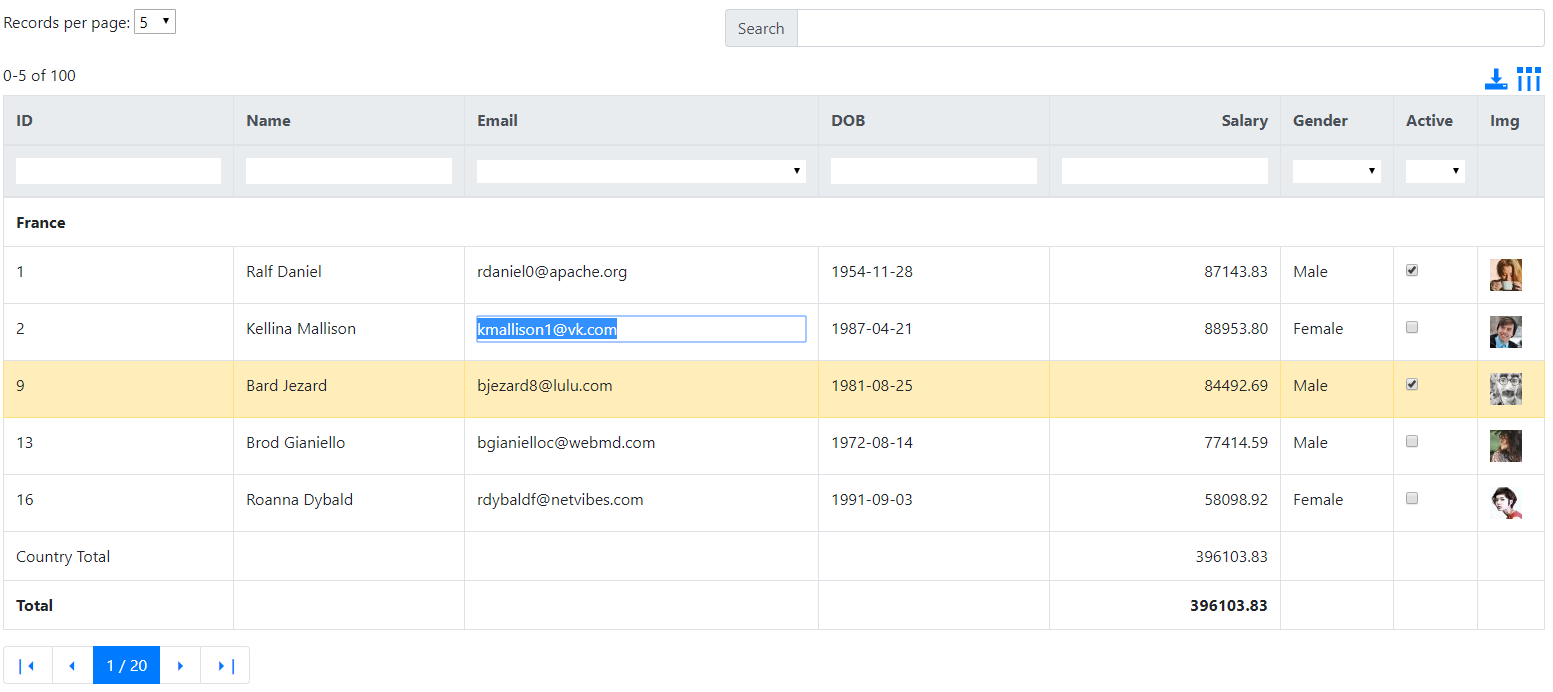
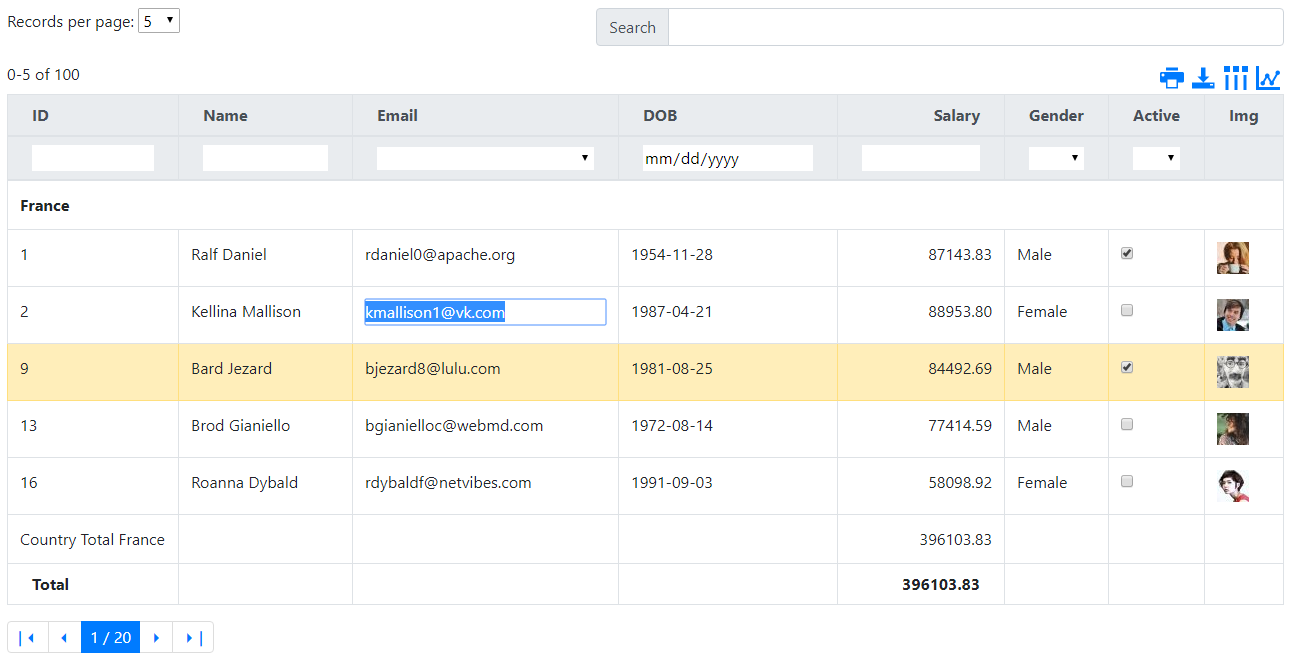
form demo

diff --git a/fathform.js b/fathform.js
@@ -1,0 +1,137 @@
+;var style = document.createElement('style');
+style.setAttribute("id","FathForm_styles");
+style.innerHTML = `
+  .FathForm .error {border-color:red;}
+  .FathForm .error-msg {color:red;}
+`;
+document.head.appendChild(style);
+//icons from https://icomoon.io/app/#/select
+
+((function(win){
+  win.FathForm=function(obj,id,_config){
+    var config={
+        method:'GET',
+        action:'',
+        fieldSeparator:'',
+        radioTemplate:`
+            <div class="form-check">
+                <input class="form-check-input" id="{id}" type="{type}" name="{name}" value="{value}" {disabled} {required} {attrs} {checked}/>
+                <label class="form-check-label" for="{id}">{label}</label>
+            </div>
+        `,
+        checkboxTemplate:`
+            <div class="form-group form-check">
+                <input class="form-check-input" id="{id}" type="{type}" placeholder="{placeholder}" name="{name}" {disabled} {required} {attrs} {checked}/>
+                <label class="form-check-label" for="{id}">{label}</label>
+            </div>`,
+        inputTemplate:`
+            <div class="form-group {classes}">
+                <label for="{id}">{label}</label>
+                <input class="form-control" id="{id}" type="{type}" placeholder="{placeholder}" name="{name}" value="{value}" {disabled} {required} {attrs}/>
+                <small class="form-text text-muted">{hint}</small>
+                <small class="error-msg form-text ">{error}</small>
+            </div>`,
+        selectTemplate:`
+            <div class="form-group {classes}">
+                <label for="{id}">{label}</label>
+                <select  class="form-control" id="{id}"  placeholder="{placeholder}" name="{name}" {disabled} {required} {attrs}>{options}</select>
+                <small class="form-text text-muted">{hint}</small>
+                <small class="error-msg form-text ">{error}</small>
+            </div>`,
+        textareaTemplate:`
+            <div class="form-group {classes}">
+                <label for="{id}">{label}</label>
+                <textarea class="form-control" id="{id}" placeholder="{placeholder}" name="{name}" {disabled} {required} {attrs}>{value}</textarea>
+                <small class="form-text text-muted">{hint}</small>
+                <small class="error-msg form-text ">{error}</small>
+            </div>`,
+        save:function(item){console.log("Saving data called",item)},
+        validate:function(item,errors){console.log("validate called",item);},
+        ..._config
+    };
+    var model=obj,model0=obj;
+    var wrapper=document.querySelector(`#${id}`);
+
+    var errors={
+        err:[],
+        add:function(field,msg){this.err.push({f:field,m:msg})},
+        clear:function(){ this.err=[]},
+    };
+    function renderField(f,model){
+        const parts={ 
+            classes:(f.classes||'')+(f.error!==undefined?' error':''),
+            label:f.label||f.name,
+            name:f.name,
+            id:f.id||f.name,
+            type:f.type||'text',
+            placeholder:f.placeholder||'',
+            hint:f.hint||'',
+            value: model[f.name],
+            checked: model[f.name]?'checked':'',
+            options:'{options}',
+            disabled:f.disabled===true?'disabled':'',
+            required:f.required===true?'required':'',
+            error:f.error||'',
+            attrs:`${f.height?`height="${f.height}"`:''} ${f.style?`style="${f.style}"`:''}`
+        };
+        if(f.type=='radio') return f.list.map(o=>{
+            parts.value=o.value;
+            parts.label=o.name;
+            parts.checked=(model[f.name]==o.value)?' checked ':'';
+            return `${config.radioTemplate.replace(/{(\w+)}/g, (x, y) => parts[y])}`;
+        }).join(''); ;
+        if(f.list!==undefined) return `${config.selectTemplate.replace(/{(\w+)}/g, (x, y) => parts[y])}`.replace('{options}',f.list.map(o=>`<option ${parts['value']==o.value?'selected':''} value=${o.value}>${o.name}</option>`).join(''));
+        if(f.type=='textarea') return `${config.textareaTemplate.replace(/{(\w+)}/g, (x, y) => parts[y])}`;
+        if(f.type=='checkbox') return `${config.checkboxTemplate.replace(/{(\w+)}/g, (x, y) => parts[y])}`;
+        return `${config.inputTemplate.replace(/{(\w+)}/g, (x, y) => parts[y])}`;
+    }
+
+    function render(){
+        wrapper.innerHTML=`
+          <form class="FathForm" method="${config.method}" action="${config.action}" >
+          ${config.fields.map(f=>renderField(f,model)).join(`${config.fieldSeparator}`)}
+          </form>`
+        ;
+    }
+    function validate(){
+        wrapper.querySelectorAll("input, select, textarea").forEach(i=>{i.classList.remove('error'); if(!i.checkValidity()) i.classList.add("error");});
+
+        errors.clear();
+        var mm={...model};
+        config.fields.forEach(f=>{mm[f.name]=wrapper.querySelector(`:scope *[name='${f.name}']`).value});
+        config.validate(mm,errors);
+        if(errors.err.length>0){
+            config.fields.forEach(f=>f.error=undefined);
+            errors.err.forEach(e=>{
+                wrapper.querySelector(`:scope *[name='${e.f}']`).classList.add("error");
+                wrapper.querySelector(`:scope *[name='${e.f}']`).parentElement.querySelector(":scope .error-msg").innerText=e.m;
+            });
+            return false;
+        }
+        return true;
+    }
+    function doSave(){
+        if(!validate()) return;
+        
+        config.fields.forEach(f=>{
+            f.type=='checkbox'?
+                model[f.name]=wrapper.querySelector(`:scope *[name='${f.name}']`).checked :
+                (f.type=='radio'?
+                    (wrapper.querySelector(`:scope *[name='${f.name}']:checked`)!=null?model[f.name]=wrapper.querySelector(`:scope *[name='${f.name}']:checked`).value:null) :
+                    model[f.name]=wrapper.querySelector(`:scope *[name='${f.name}']`).value
+                )
+        });
+        console.log("saving ",model);
+        config.save(model);
+    }
+
+    render();
+    return {
+      id:id,
+      render:render,
+      wrapperEl:wrapper,
+      save:doSave,
+      reset:function(){model=obj;render()},
+    }
+  }
+})(typeof window !== "undefined" ? window : this));

diff --git a/demos/form-demo.html b/demos/form-demo.html
@@ -1,0 +1,128 @@
+<!doctype html>
+<html lang="en">
+  <head>
+    <!-- Required meta tags -->
+    <meta charset="utf-8">
+    <meta name="viewport" content="width=device-width, initial-scale=1, shrink-to-fit=no">
+
+    <!-- Bootstrap CSS -->
+    <link rel="stylesheet" href="https://stackpath.bootstrapcdn.com/bootstrap/4.3.1/css/bootstrap.min.css" integrity="sha384-ggOyR0iXCbMQv3Xipma34MD+dH/1fQ784/j6cY/iJTQUOhcWr7x9JvoRxT2MZw1T" crossorigin="anonymous">
+
+    <title>FathGrid demo!</title>
+    
+    <!-- add jsPdf to enable PDF export -->
+    <script src="https://unpkg.com/jspdf@latest/dist/jspdf.min.js"></script>
+
+
+    <script src="../fathgrid.js"></script>
+    <script src="../fathform.js"></script>
+
+    <style>
+      tr.selected td:nth-child(1) {border-left:solid 4px cornflowerblue;}
+      tr.selected > td{background:#ddd;}
+      tr.subgrid > td {border-left:solid 4px cornflowerblue;border-bottom: solid 2px #ddd}
+    </style>
+
+  </head>
+  <body>
+      <div class="container-fluid">
+    <h1>FathGrid with server-side data</h1>
+    <p>This demo uses FathGrid.serverURL to get data from server-side API (<a href="https://jsonplaceholder.typicode.com/">jsonplaceholder</a>).</p>
+    <p>When a row is selected, sub-grid is initialized with detail data.</p>
+
+    <div style="display: flex;">
+      <div style="flex-grow: 1">Records per page: <select onchange="t1.setPageSize(this.value)"><option value="5">5</option><option selected value="10">10</option><option value="20">20</option><option value="50">50</option></select></div>
+      <div style="flex-grow: 1">
+        
+        <div class="input-group mb-3">
+          <div class="input-group-prepend">
+            <span class="input-group-text" id="inputGroup-sizing-default">Search</span>
+          </div>
+          <input onchange="t1.search(this.value)" type="text" class="form-control" aria-label="Default" aria-describedby="inputGroup-sizing-default">
+        </div>        
+      </div>
+    </div>
+
+
+    <div class="row">
+      <div class="col-md-8">
+          <table  id="table1" class="table table-bordered ">       <thead class="thead-light"></thead> </table>
+      </div>
+      <div class="col-md-4">
+
+        <div class="modal-content">
+          <div class="modal-header">
+            <h5 class="modal-title">Form</h5>
+          </div>
+          <div class="modal-body">
+              <div id="form-container">(select record)</div>
+          </div>
+          <div class="modal-footer">
+            <button type="button" class="btn btn-secondary" onclick="f1.reset()">Reset</button>
+            <button type="button" class="btn btn-primary" onclick="f1.save()">Save</button>
+          </div>
+        </div>        
+        
+
+
+      </div>
+      
+    </div>
+
+  </div>
+  
+    <script>
+        var t1,f1,users=[];
+
+        fetch('https://jsonplaceholder.typicode.com/users')
+          .then(response => response.json())
+          .then(json => {
+            json.forEach(x=>users.push({value:x.id,name:x.name}));
+
+
+            //initialize main grid with posts data from server
+            t1=FathGrid("table1",{
+              serverURL:'https://jsonplaceholder.typicode.com/posts?_page=${page}&_limit=${size}&_sort=${sort}&_order=${order}&q=${search}&${filters}',
+              size:10,
+              editable:true,
+              onChange:function(data,col,old,value){console.log("onChange:",data.id,col,old,value);return value==''?false:true;},
+              
+              //this onclick function shows comments for selected post
+              onClick:function(item,col,el){
+                f1=FathForm(item,'form-container',{
+                  fields:[
+                    {name:'id', label:'ID',disabled:true},
+                    {name:'userId', label:'User',list:users},
+                    {name:'title',label:'Title',required:true},
+                    {name:'body',type:'textarea',style:'height:12rem',label:'Body'},
+                    {name:'active',type:'checkbox',label:'Active'},
+                    {name:'rad', type:'radio',label:'Radios',list:[{value:'1',name:'Radio1'},{value:'2',name:'Radio2'},{value:'3',name:'Radio3'},]},
+                  ],
+                  validate:(item,errors)=>{if(item.body=='') {errors.add('body','Must enter something!');return false;}},
+                  save:(item2)=>{console.log("save",item2,item.rownum);Object.keys(item).forEach(k=>{item[k]=item2[k]});t1.refresh();t1.selectRow(item.rownum);},
+
+                });
+              },
+
+              columns:[
+                  {editable:false, name:'id',header:"ID"},
+                  {
+                    name:'userId', 
+                    filter:users,                listOfValues:users,
+                    value:function(item){return users.find(i=>i.value==item.userId).name;},
+                    header:'User'
+                  },
+                  {name:'title',header:'Title'},
+                  {name:'body',header:'Text',type:'textarea', value:(item)=>`${item.body.substring(0,30)+'...'}`},
+              ],
+            });
+
+
+          });
+    </script>
+  
+  </body>
+</html>
+
+
+

diff --git a/fathgrid.js b/fathgrid.js
@@ -613,28 +613,67 @@ document.head.appendChild(style);
         var doc = new jsPDF('p','cm','A4');  
         doc.setFontSize(9);
         doc.setLineWidth(0.025);
-        var x=1;var y=1;var ii=0;
+        var x=1;var y=1;var ii=0,pg=1;
         var cw=[],cww=0;table.querySelectorAll(":scope thead tr:nth-child(1) th").forEach(x=>{cww+=x.clientWidth;cw.push(x.clientWidth)});
         table.querySelectorAll(":scope thead tr:nth-child(1) th").forEach(f=>{
           var w=doc.getTextWidth(f.innerText);
-          doc.text(f.innerText,x,y,{maxWidth:(cw[ii]/cww)*20-0.1});
+          if(cw[ii]) doc.text(f.innerText,x,y,{maxWidth:(cw[ii]/cww)*20-0.1});
           x+=(cw[ii++]/cww)*20;
         });
         y+=0.3;
-        data.forEach(r=>{
+        var lastgroup=null,groupdata=[];
+        data.forEach((r,idx)=>{
+          if(typeof config.groupOn==='function' && lastgroup!==(gg=config.groupOn(r,idx))){
+            doc.setFontType("bold")
+            if(config.showGroupFooter===true && lastgroup!==null){
+              doc.line(1,y-.4,20,y-.4);
+              config.columns.forEach((c,ic)=>{
+                doc.text(''+(typeof c.groupFooter=='function'?c.groupFooter(groupdata):(undefined===c.groupFooter?'':c.groupFooter)),x,y,{});
+                x+=(cw[ic]/cww)*20;
+              });
+              doc.line(1,y+.2,20,y+.2);
+              y+=0.5;
+            }
+            doc.text(gg,1,y,{maxWidth:(cw[ii]/cww)*20-0.1});
+            doc.setFontType("normal")
+            y+=0.5;
+            x=1;
+            lastgroup=gg;
+            groupdata=[];
+          }
+
+
           ii=0;
           var lines=0;
-          Object.keys(r).forEach(k=>{
-            var w=doc.getTextWidth(r[k]);
-            doc.text(''+r[k],x,y,{maxWidth:(cw[ii]/cww)*20-0.1});
-            lines=Math.max(lines,w/((cw[ii]/cww)*20-0.1));
+          config.columns.forEach((c,ic)=>{
+            var ct=vv2(r,ic);
+            if(undefined!==ct){
+              var w=doc.getTextWidth(ct);
+              if(cw[ii]) {
+                doc.text(''+ct,x,y,{maxWidth:(cw[ii]/cww)*20-0.1});
+                lines=Math.max(lines,w/((cw[ii]/cww)*20-0.1));
+              }
+            }
             x+=(cw[ii++]/cww)*20;
           });
-          x=1;y+=.3*(1+Math.floor(lines+0.99));
+          x=1;y+=.3*(1+Math.floor(lines+0.9999));
           doc.line(1,y-.35,20,y-.35);
 
-          if(y>28){doc.addPage();y=1;doc.setLineWidth(0.025);}
+          if(y>28){doc.text(''+pg++,10,29); doc.addPage();y=1;doc.setLineWidth(0.025);doc.line(1,y-.35,20,y-.35);}
+          if(undefined!==config.groupOn && config.showGroupFooter===true) groupdata.push(r);
         });        
+        doc.text(''+pg++,10,29);
+        doc.setFontType("bold")
+        if(config.showGroupFooter===true && lastgroup!==null){
+          doc.line(1,y-.4,20,y-.4);
+          x=1;
+          config.columns.forEach((c,ic)=>{
+            doc.text(''+(typeof c.groupFooter=='function'?c.groupFooter(groupdata):(c.groupFooter===undefined?'':c.groupFooter)),x,y,{});
+            x+=(cw[ic]/cww)*20;
+          });
+          doc.line(1,y+.2,20,y+.2);
+        }
+
         doc.line(1,y-0.4,20,y-0.4);
         return doc;
       }
@@ -754,6 +793,7 @@ document.head.appendChild(style);
       selectRow:selectRow,
       insertRow:function(rownum,item){ if(rownum===null) rownum=data.length+1;;data.splice(rownum-1,0,item);data.map((x,idx)=>{x.rownum=idx+1;return x;});render()},
       deleteRow:function(rownum){ data.splice(rownum-1,1);data.map((item,idx)=>{item.rownum=idx+1;return item;});render()},
+      refresh:renderBody
     }
   }
 })(typeof window !== "undefined" ? window : this));

diff --git a/demos/sample.html b/demos/sample.html
@@ -91,6 +91,7 @@ var t1=FathGrid("table1",{
       ],
       data:demodata,
       graphValues:(data)=>({title:'Salary',labels:data.map(x=>x.name),values:data.map(item=>item.salary)}),
+      graphType:'bar',
     });
     
     </script>

diff --git a/README.md b/README.md
@@ -30,7 +30,7 @@ where "table1" is an ID of HTML table.
 
 # Online demos
 
-<a href="http://www.fathsoft.com/grid/demos/sample.html">Demo 1</a> | <a href="http://www.fathsoft.com/grid/demos/songs.html">Demo 2</a> |  <a href="http://www.fathsoft.com/grid/demos/edit-demo.html">Editing</a> | 
+<a href="http://www.fathsoft.com/grid/demos/sample.html">Demo 1</a> | <a href="http://www.fathsoft.com/grid/demos/songs.html">Demo 2</a> |  <a href="http://www.fathsoft.com/grid/demos/edit-demo.html">Editing</a> | <a href="http://www.fathsoft.com/grid/demos/form-demo.html">Forms Demo</a> | 
 
 # Table Data
 Table data can be set inline, in your HTML, or dynamically loaded with setData method or configuration option.
